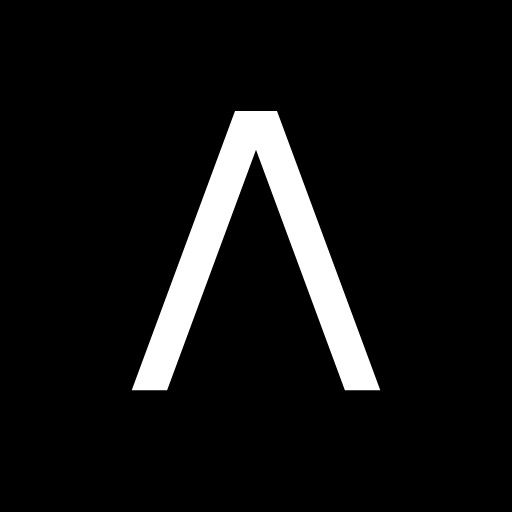
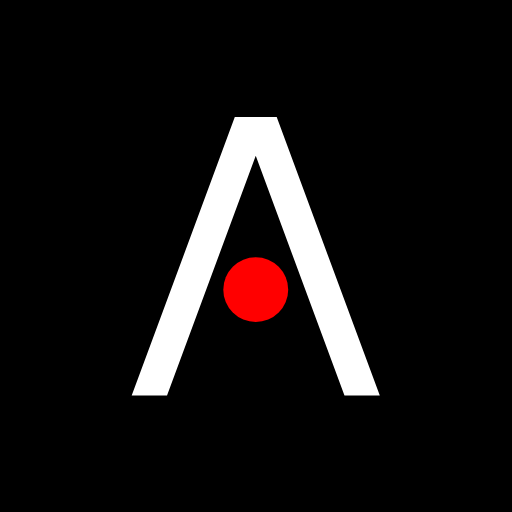
Íconos del CRM con el isotipo Λ con punto rojo
Claude-Session: https://claude.ai/code/session_015mNu6aC4XNXwhPNxrbHeY2

diff --git a/index.html b/index.html
@@ -2,9 +2,9 @@
 <html lang="es">
 <head><link rel="manifest" href="/manifest.json">
 <meta name="theme-color" content="#000000">
-<link rel="icon" type="image/png" sizes="512x512" href="/icons/icon-512.png">
-<link rel="icon" type="image/png" sizes="192x192" href="/icons/icon-192.png">
-<link rel="apple-touch-icon" href="/icons/apple-touch-icon.png">
+<link rel="icon" type="image/png" sizes="512x512" href="/icons/icon-512.png?v=punto1">
+<link rel="icon" type="image/png" sizes="192x192" href="/icons/icon-192.png?v=punto1">
+<link rel="apple-touch-icon" href="/icons/apple-touch-icon.png?v=punto1">
 <meta name="apple-mobile-web-app-capable" content="yes">
 <meta name="apple-mobile-web-app-status-bar-style" content="black-translucent">
 <meta name="apple-mobile-web-app-title" content="Mangu CRM">
